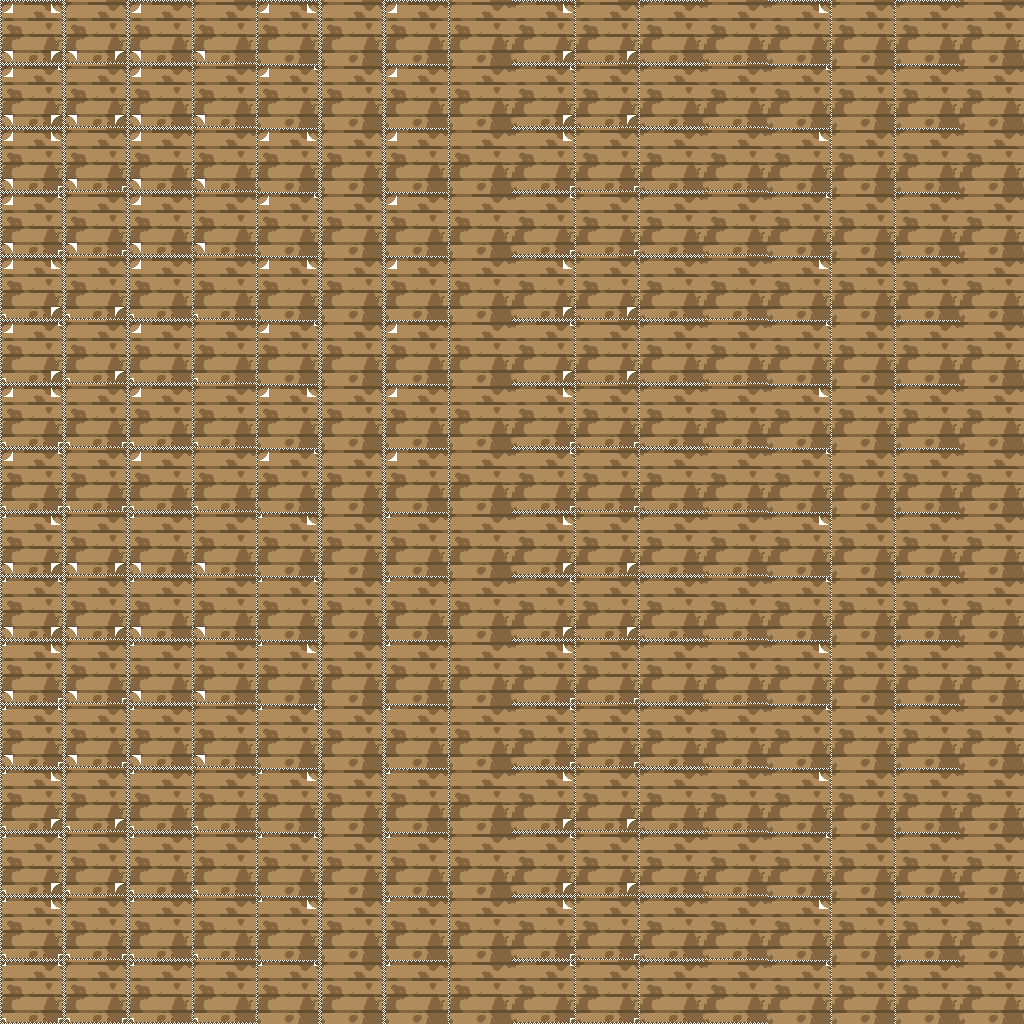
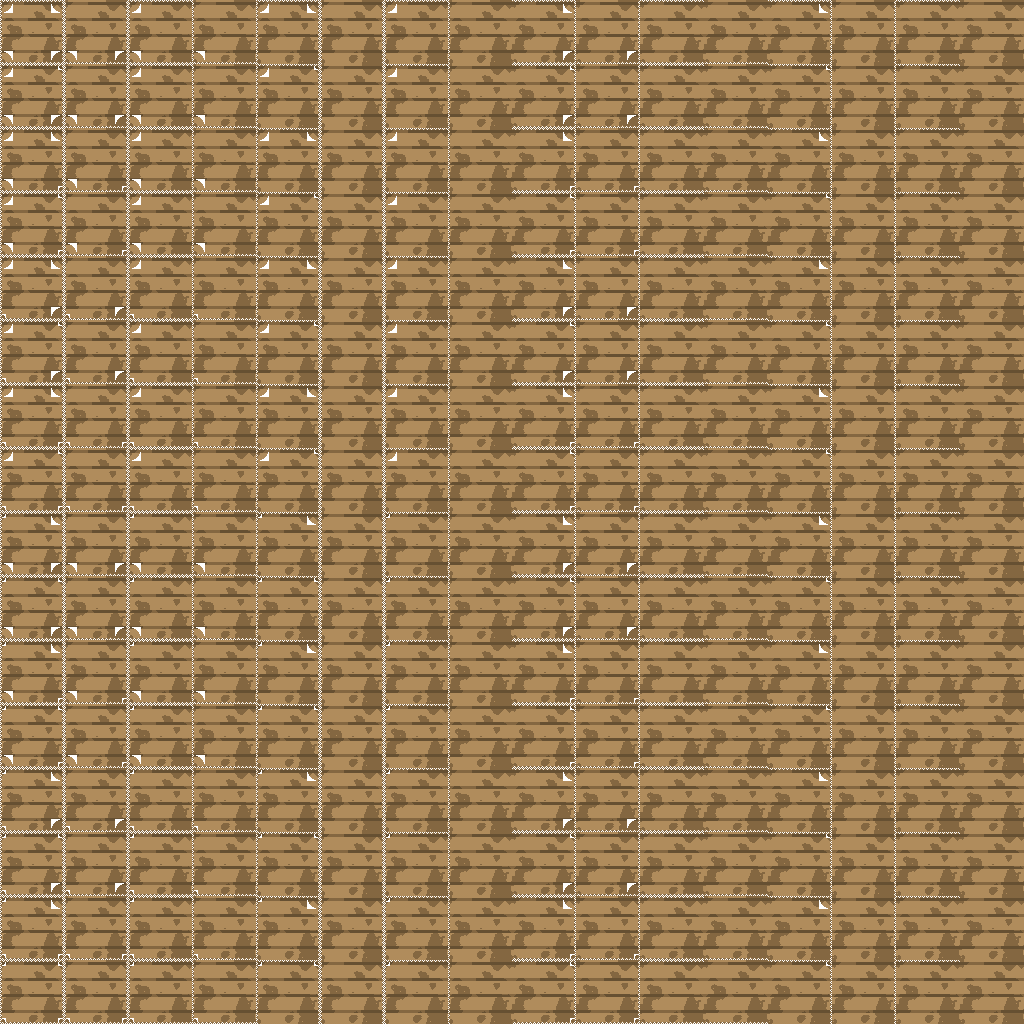
P3.b(farm): 地面首批回填——草地/泥土正式纹理入库（候选A）
- 出图：本机 ComfyUI Qwen-Image2.1（prompts.json 注入 palette 锚点），
  1024²→BOX→128² 源图，各 2 候选（seed 91-94 记录于 .art-work/raw/gen_meta.json）
- 后处理：postprocess_assets 降 64 + 4px 边缘混合；QC 4+6 全过（仅 palette
  连续色调告警，风格表允许）；3×3 平铺与 farm 场景截图目检通过
- 入库：候选A 复制正式路径，--transitions-only 重建过渡 atlas，
  farmtest 40 项全过；art_status 登记 delivered，manifest 重建（已交付 2/14）
- 工具：tools/farming/gen_ground_batch.py（自包含 ComfyUI 客户端出图脚本）
- 候选B（草偏亮/泥大土块）保留 .art-work 待定夺；石板/耕地待审核后出图

diff --git a/tools/farming/gen_ground_batch.py b/tools/farming/gen_ground_batch.py
@@ -1,0 +1,118 @@
+# -*- coding: utf-8 -*-
+"""ground 批次出图（dev 分支 farm 线 Phase 3，本机 ComfyUI 出图机角色）。
+
+按 .art-work/handoff/ground/prompts.json 生成草地/泥土各 2 候选：
+  ComfyUI Qwen-Image 2.1 1024² 出图 → BOX 面积平均降采样 128²（源图=64 整倍数）
+  → 落盘 .art-work/raw/candidate_{a,b}/assets/farming/ground/<name>.png（manifest 原路径）
+
+自包含最小 ComfyUI 客户端（不依赖旧线归档工具）；出图参数记录进 raw/gen_meta.json。
+用法：python tools/farming/gen_ground_batch.py
+"""
+import json
+import sys
+import time
+import urllib.request
+import uuid
+from pathlib import Path
+
+from PIL import Image
+
+ROOT = Path(__file__).resolve().parent.parent.parent
+WORK = ROOT / ".art-work"
+PROMPTS = WORK / "handoff" / "ground" / "prompts.json"
+API = "http://127.0.0.1:8188"
+BATCH = ["ground_grass", "ground_dirt"]          # 首批：草地/泥土（审核后再石板/耕地）
+SEEDS = {("ground_grass", "a"): 202610091, ("ground_grass", "b"): 202610092,
+         ("ground_dirt", "a"): 202610093, ("ground_dirt", "b"): 202610094}
+STEPS, CFG, SAMPLER, SCHED = 25, 1.0, "euler", "simple"
+GEN_SIZE = 1024                                   # 出图尺寸（降采样前）
+RAW_SIZE = 128                                    # 契约源图尺寸（64 整倍数，本轮 128）
+
+
+def gen(prompt: str, negative: str, seed: int, path: Path) -> None:
+    """Qwen-Image 2.1 int8 文生图（本机 ComfyUI 栈），落盘 path。"""
+    wf = {
+        "unet": {"class_type": "UNETLoader", "inputs": {
+            "unet_name": "qwen_image_2.1_int8_convrot.safetensors",
+            "weight_dtype": "default"}},
+        "clip": {"class_type": "CLIPLoader", "inputs": {
+            "clip_name": "qwen3vl_8b_int8_convrot.safetensors",
+            "type": "qwen_image", "device": "default"}},
+        "vae": {"class_type": "VAELoader", "inputs": {
+            "vae_name": "qwen_image_2.1_vae_bf16.safetensors"}},
+        "enc": {"class_type": "TextEncodeQwenImage21", "inputs": {
+            "clip": ["clip", 0], "prompt": prompt,
+            "negative_prompt": negative, "resolution": 1024}},
+        "lat": {"class_type": "EmptyLatentImage", "inputs": {
+            "width": GEN_SIZE, "height": GEN_SIZE, "batch_size": 1}},
+        "ks": {"class_type": "KSampler", "inputs": {
+            "model": ["unet", 0], "positive": ["enc", 0], "negative": ["enc", 1],
+            "latent_image": ["lat", 0], "seed": seed, "steps": STEPS, "cfg": CFG,
+            "sampler_name": SAMPLER, "scheduler": SCHED, "denoise": 1.0}},
+        "dec": {"class_type": "VAEDecode", "inputs": {
+            "samples": ["ks", 0], "vae": ["vae", 0]}},
+        "save": {"class_type": "SaveImage", "inputs": {
+            "images": ["dec", 0], "filename_prefix": "rpgmap-farm"}},
+    }
+    data = json.dumps({"prompt": wf, "client_id": str(uuid.uuid4())}).encode()
+    req = urllib.request.Request(API + "/prompt", data=data,
+                                 headers={"Content-Type": "application/json"})
+    resp = json.load(urllib.request.urlopen(req, timeout=180))
+    if resp.get("node_errors"):
+        raise RuntimeError(json.dumps(resp["node_errors"])[:400])
+    pid = resp["prompt_id"]
+    t0 = time.time()
+    while True:
+        time.sleep(2.5)
+        with urllib.request.urlopen(API + f"/history/{pid}", timeout=60) as r:
+            h = json.load(r)
+        if pid not in h:
+            if time.time() - t0 > 900:
+                raise TimeoutError(f"{path.name} 生成超时(15min)")
+            continue
+        st = h[pid].get("status", {})
+        if st.get("status_str") == "error":
+            raise RuntimeError(json.dumps(st, ensure_ascii=False)[:400])
+        if not st.get("completed"):
+            continue
+        for o in h[pid].get("outputs", {}).values():
+            for img in o.get("images", []):
+                u = (f"{API}/view?filename={img['filename']}"
+                     f"&subfolder={img.get('subfolder', '')}&type={img.get('type', 'output')}")
+                path.write_bytes(urllib.request.urlopen(u, timeout=120).read())
+                return
+        raise RuntimeError("完成但无输出图")
+
+
+def main() -> None:
+    items = [p for p in json.loads(PROMPTS.read_text(encoding="utf-8"))
+             if Path(p["path"]).stem in BATCH]
+    meta = {"workflow": "text2img UNET=qwen_image_2.1_int8_convrot "
+                        "CLIP=qwen3vl_8b_int8_convrot VAE=qwen_image_2.1_vae_bf16",
+            "steps": STEPS, "cfg": CFG, "sampler": f"{SAMPLER}/{SCHED}",
+            "gen_size": GEN_SIZE, "downscale": "BOX area average -> 128",
+            "candidates": {}}
+    cache = WORK / "raw" / "_gen1024"
+    cache.mkdir(parents=True, exist_ok=True)
+    for it in items:
+        stem = Path(it["path"]).stem
+        for cand in ("a", "b"):
+            seed = SEEDS[(stem, cand)]
+            big = cache / f"{stem}_{cand}.png"
+            if not big.exists():
+                print(f"[gen] {stem} 候选{cand} seed={seed}", flush=True)
+                gen(it["prompt"], it["negative"], seed, big)
+            img = Image.open(big).convert("RGB").resize((RAW_SIZE, RAW_SIZE), Image.BOX)
+            out = WORK / "raw" / f"candidate_{cand}" / it["path"]
+            out.parent.mkdir(parents=True, exist_ok=True)
+            img.save(out)
+            meta["candidates"][f"{stem}_{cand}"] = {"seed": seed,
+                    "raw": str(out.relative_to(ROOT))}
+            print(f"[ok] {out.relative_to(ROOT)}", flush=True)
+    (WORK / "raw" / "gen_meta.json").write_text(
+        json.dumps(meta, ensure_ascii=False, indent=1), encoding="utf-8")
+    print("gen_meta.json written")
+
+
+if __name__ == "__main__":
+    main()
